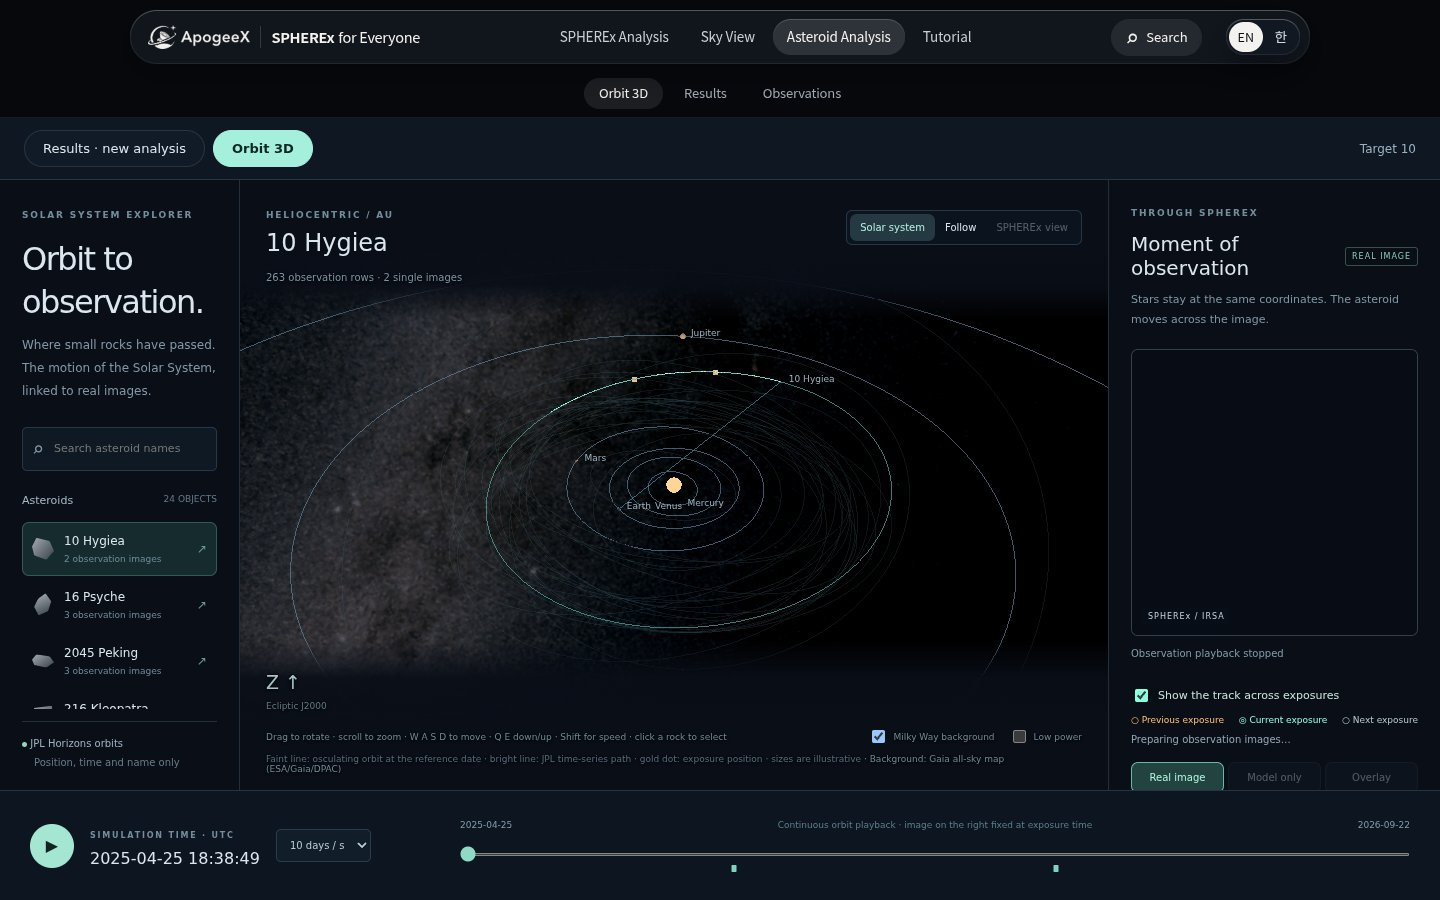
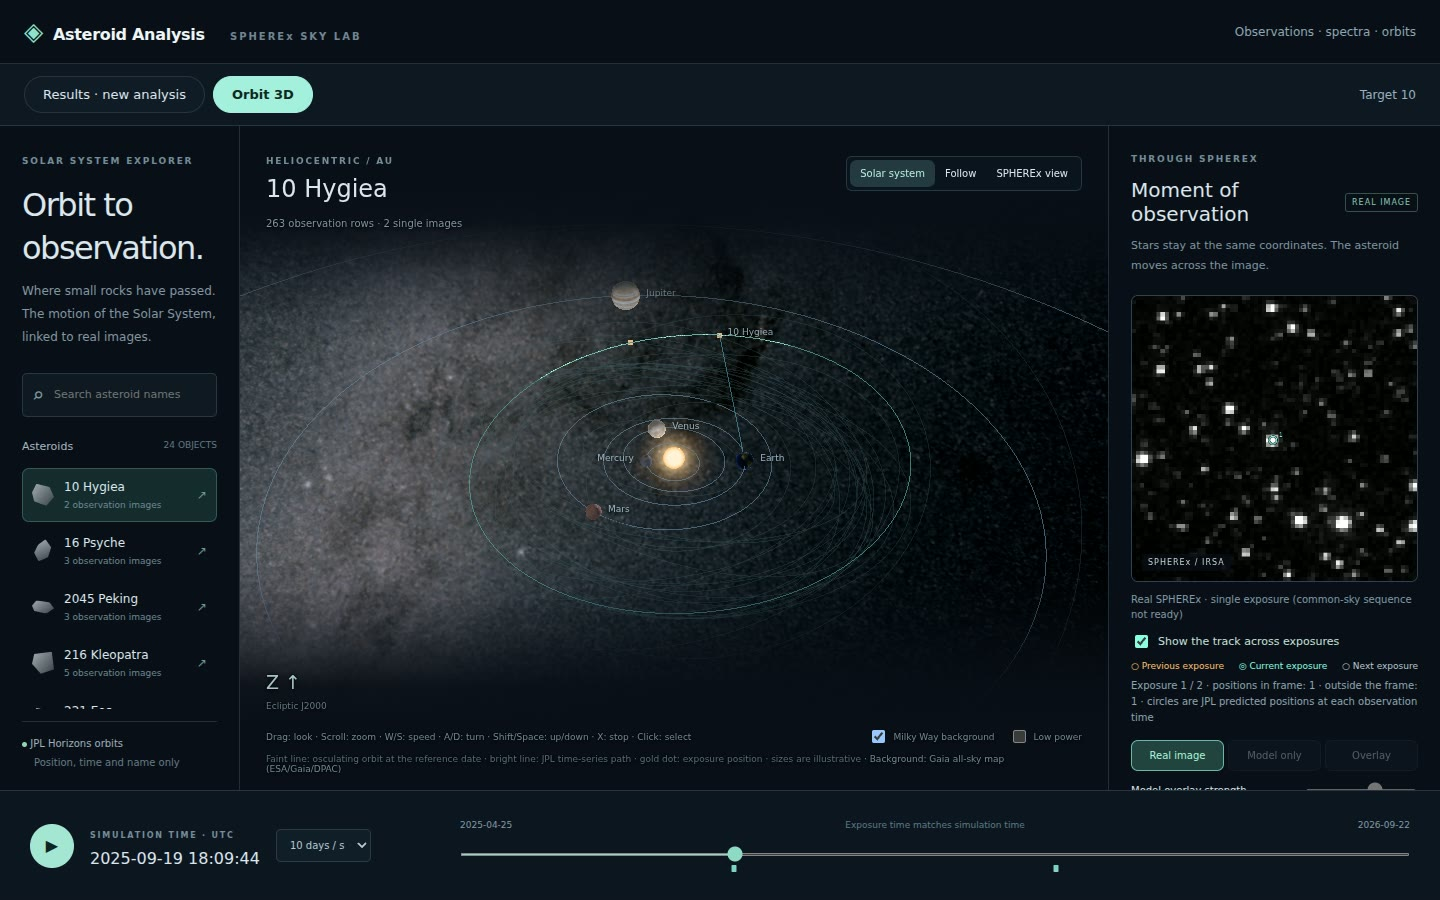
README: new Orbit 3D picture; use-case diagram laid out top to bottom

diff --git a/README.ko.md b/README.ko.md
@@ -43,7 +43,7 @@
 </tr>
 <tr>
 <td width="50%" valign="top"><img alt="분석" src="docs/readme/analyse.jpg" width="100%"><br><b>분석.</b> 준비된 대상마다 위치, 변광, 스펙트럼, 자료 출처를 봅니다.</td>
-<td width="50%" valign="top"><img alt="궤도 3D" src="docs/readme/orbit-3d.jpg" width="100%"><br><b>궤도 3D.</b> JPL의 소행성 궤도를 실제 SPHEREx 영상과 잇고, 은하수를 배경으로 W A S D로 날아다닙니다.</td>
+<td width="50%" valign="top"><img alt="궤도 3D" src="docs/readme/orbit-3d.jpg" width="100%"><br><b>궤도 3D.</b> JPL의 소행성 궤도를 실제 SPHEREx 영상과 잇고, 은하수를 배경으로 행성 사이를 키보드로 날아다닙니다.</td>
 </tr>
 <tr>
 <td width="50%" valign="top"><img alt="검색" src="docs/readme/search.jpg" width="100%"><br><b>검색.</b> 자체 검색 엔진이 먼저 답합니다. 엔진이 읽지 못한 문장만 작은 언어 모형이 읽으며, 그런 결과에는 표시가 붙습니다.</td>
@@ -106,34 +106,43 @@ Python 서비스가 없어도 홈, 천구 관찰, 플라네타리움, 준비된 
 유스케이스 다이어그램으로, 두 종류의 사용자가 화면마다 할 수 있는 주요 일을 정리했습니다.
 
 ```mermaid
-flowchart LR
+flowchart TB
   V(["방문자"])
-  R(["연구자"])
   subgraph Home["홈"]
+    direction TB
     H1("가시광·적외선 지도 비교")
   end
   subgraph Sky["천구 관찰"]
+    direction TB
     S1("하늘에서 자리 고르기")
     S2("준비된 천체 분석 열기")
     S3("이 자리의 SPHEREx 영상 가져오기")
     S4("플라네타리움으로 전환")
+    S1 ~~~ S2 ~~~ S3 ~~~ S4
   end
   subgraph SA["SPHEREx 분석"]
+    direction TB
     A1("방문 순서대로 깜빡이기")
     A2("스펙트럼 실험실")
     A3("방문 목록 내려받기 (CSV)")
+    A1 ~~~ A2 ~~~ A3
   end
   subgraph AA["소행성 분석"]
+    direction TB
     B1("궤도 3D와 시간 슬라이더")
     B2("준비된 결과 보기")
     B3("새 분석 실행")
     B4("FITS 잘라낸 영상 내려받기")
+    B1 ~~~ B2 ~~~ B3 ~~~ B4
   end
   subgraph ST["검색과 튜토리얼"]
+    direction TB
     T1("이름이나 RA/Dec로 검색")
     T2("일반 과정")
     T3("연구자 과정")
+    T1 ~~~ T2 ~~~ T3
   end
+  R(["연구자"])
   V --- H1
   V --- S1
   V --- S2

diff --git a/README.md b/README.md
@@ -41,7 +41,7 @@ For people who are not astronomers, the tutorial's general course and the plain-
 </tr>
 <tr>
 <td width="50%" valign="top"><img alt="Analyse" src="docs/readme/analyse.jpg" width="100%"><br><b>Analyse.</b> Positions, variability, spectrum and provenance for each prepared target.</td>
-<td width="50%" valign="top"><img alt="Orbit 3D" src="docs/readme/orbit-3d.jpg" width="100%"><br><b>Orbit 3D.</b> Asteroid orbits from JPL linked to real SPHEREx images, with W A S D flight against the Milky Way.</td>
+<td width="50%" valign="top"><img alt="Orbit 3D" src="docs/readme/orbit-3d.jpg" width="100%"><br><b>Orbit 3D.</b> Asteroid orbits from JPL linked to real SPHEREx images, with keyboard flight past the planets against the Milky Way.</td>
 </tr>
 <tr>
 <td width="50%" valign="top"><img alt="Search" src="docs/readme/search.jpg" width="100%"><br><b>Search.</b> Our own engine answers first; a small language model reads a sentence only when the engine cannot, and such results are labelled.</td>
@@ -104,34 +104,43 @@ This block diagram follows the data through four steps: collect from the archive
 A use-case diagram: two kinds of user and the main things each can do on each screen.
 
 ```mermaid
-flowchart LR
+flowchart TB
   V(["Visitor"])
-  R(["Researcher"])
   subgraph Home
+    direction TB
     H1("Slide visible vs infrared map")
   end
   subgraph Sky["Sky View"]
+    direction TB
     S1("Pick a position")
     S2("Open target analysis")
     S3("Fetch SPHEREx images here")
     S4("Switch to Planetarium")
+    S1 ~~~ S2 ~~~ S3 ~~~ S4
   end
   subgraph SA["SPHEREx Analysis"]
+    direction TB
     A1("Blink the visits in order")
     A2("Spectrum lab")
     A3("Download visit list (CSV)")
+    A1 ~~~ A2 ~~~ A3
   end
   subgraph AA["Asteroid Analysis"]
+    direction TB
     B1("Orbit 3D with time slider")
     B2("Browse prepared results")
     B3("Run analysis")
     B4("Download FITS cut-out")
+    B1 ~~~ B2 ~~~ B3 ~~~ B4
   end
   subgraph ST["Search and Tutorial"]
+    direction TB
     T1("Search by name or RA/Dec")
     T2("General course")
     T3("Researcher course")
+    T1 ~~~ T2 ~~~ T3
   end
+  R(["Researcher"])
   V --- H1
   V --- S1
   V --- S2
